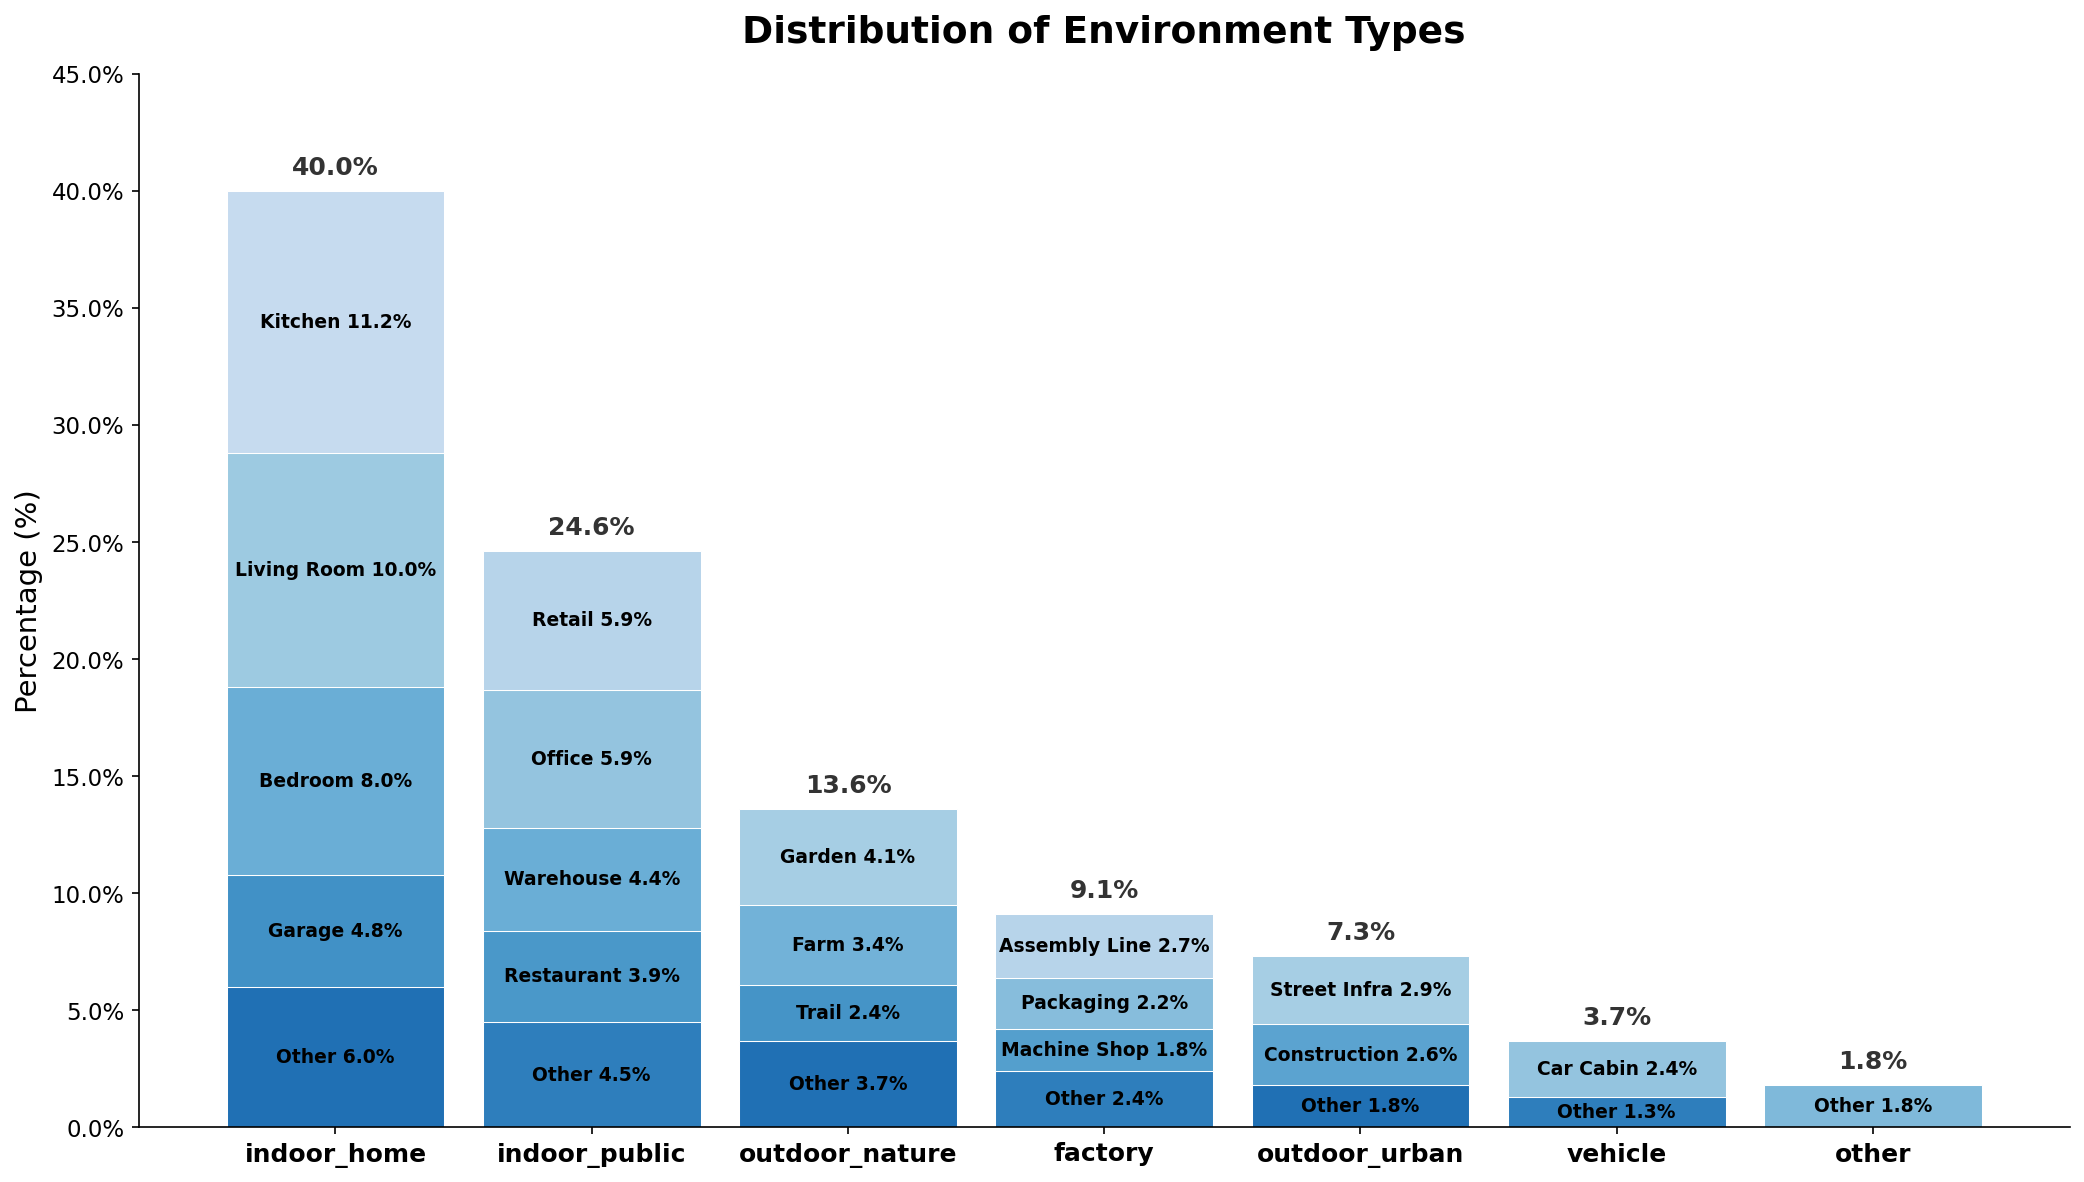
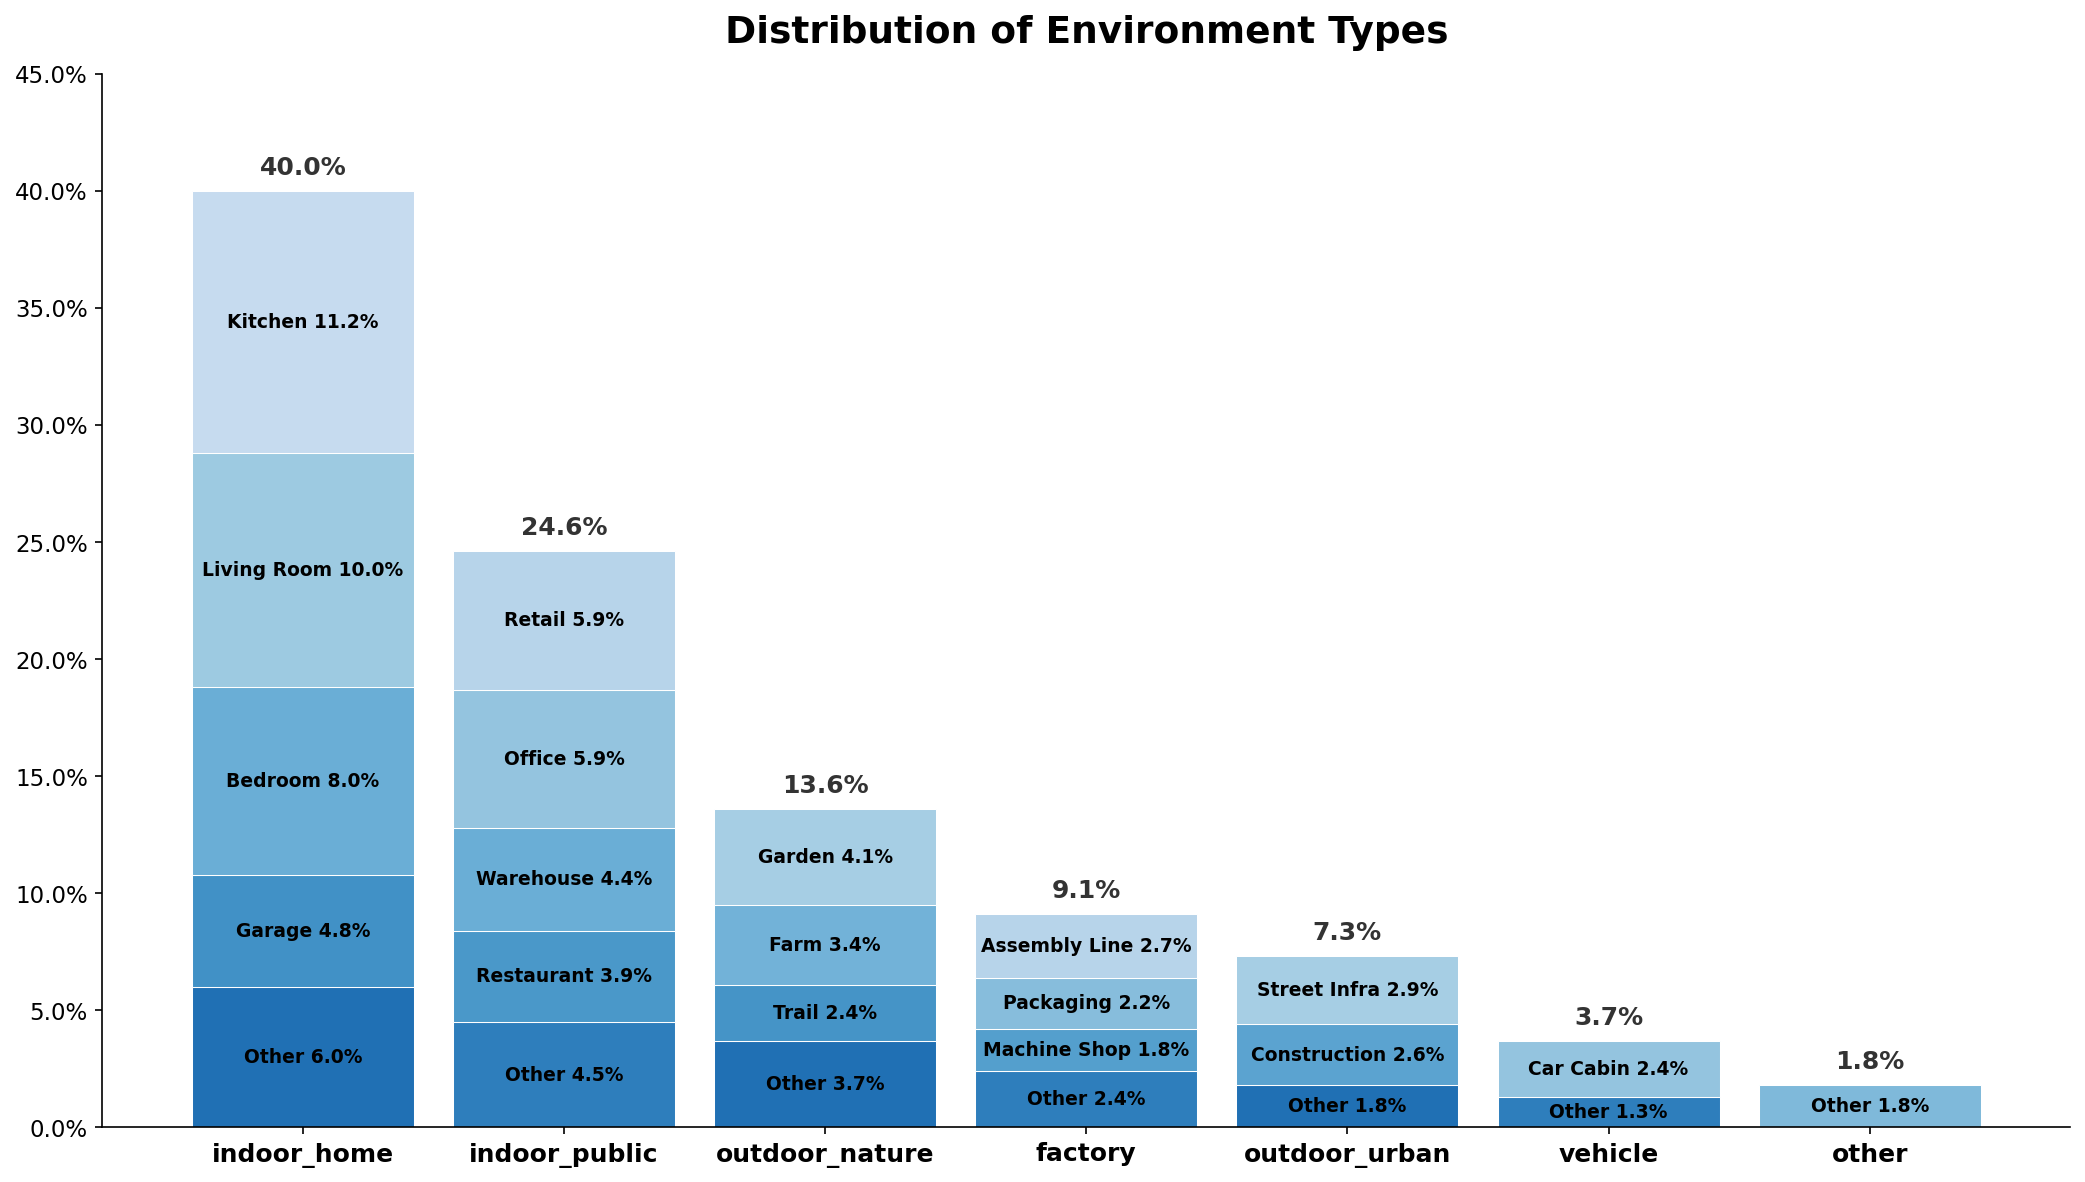
Remove y-axis label text
https://claude.ai/code/session_018xFGws4xpUTXJntMBVQsZP

diff --git a/stake_histogram.py b/stake_histogram.py
@@ -114,7 +114,7 @@ for i, env in enumerate(env_names):
 
 ax.set_xticks(x_positions)
 ax.set_xticklabels(env_names, fontsize=12, fontweight="bold")
-ax.set_ylabel("Percentage (%)", fontsize=14)
+ax.set_ylabel("")
 ax.set_title("Distribution of Environment Types", fontsize=18, fontweight="bold", pad=15)
 ax.tick_params(axis="y", labelsize=11)
 ax.yaxis.set_major_formatter(mticker.PercentFormatter())
